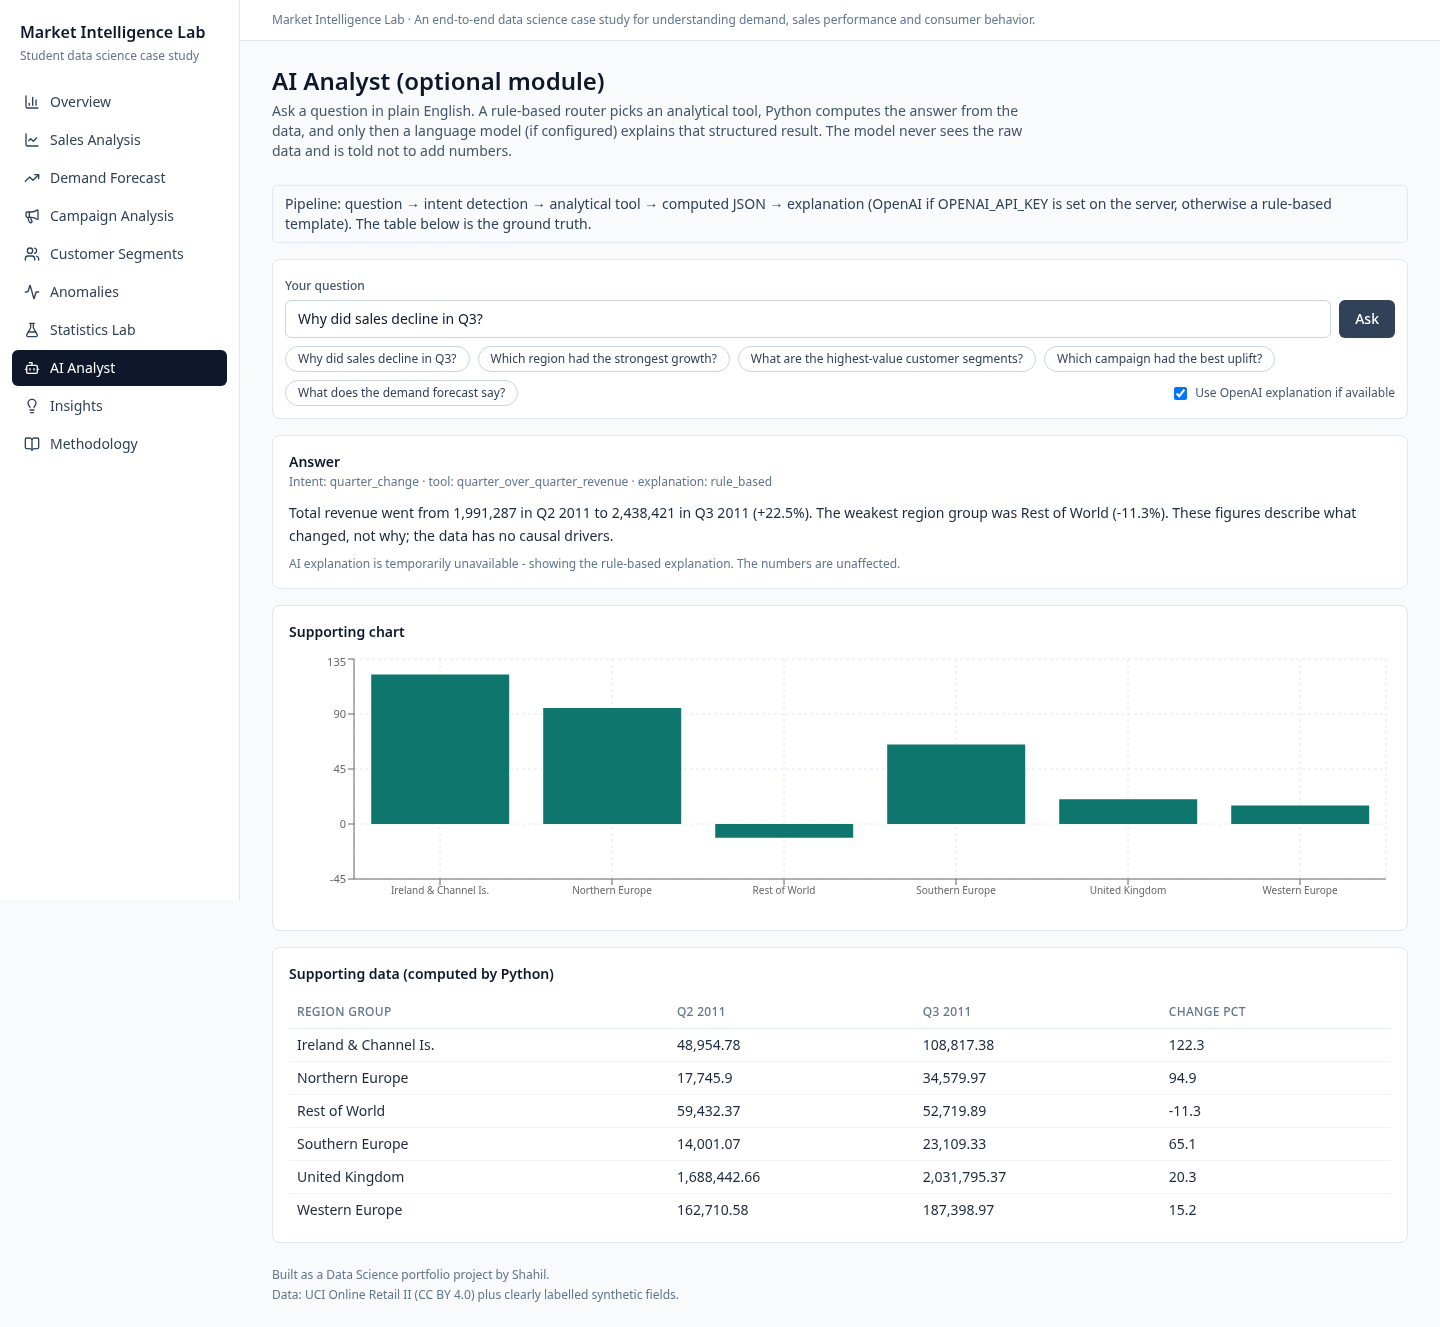
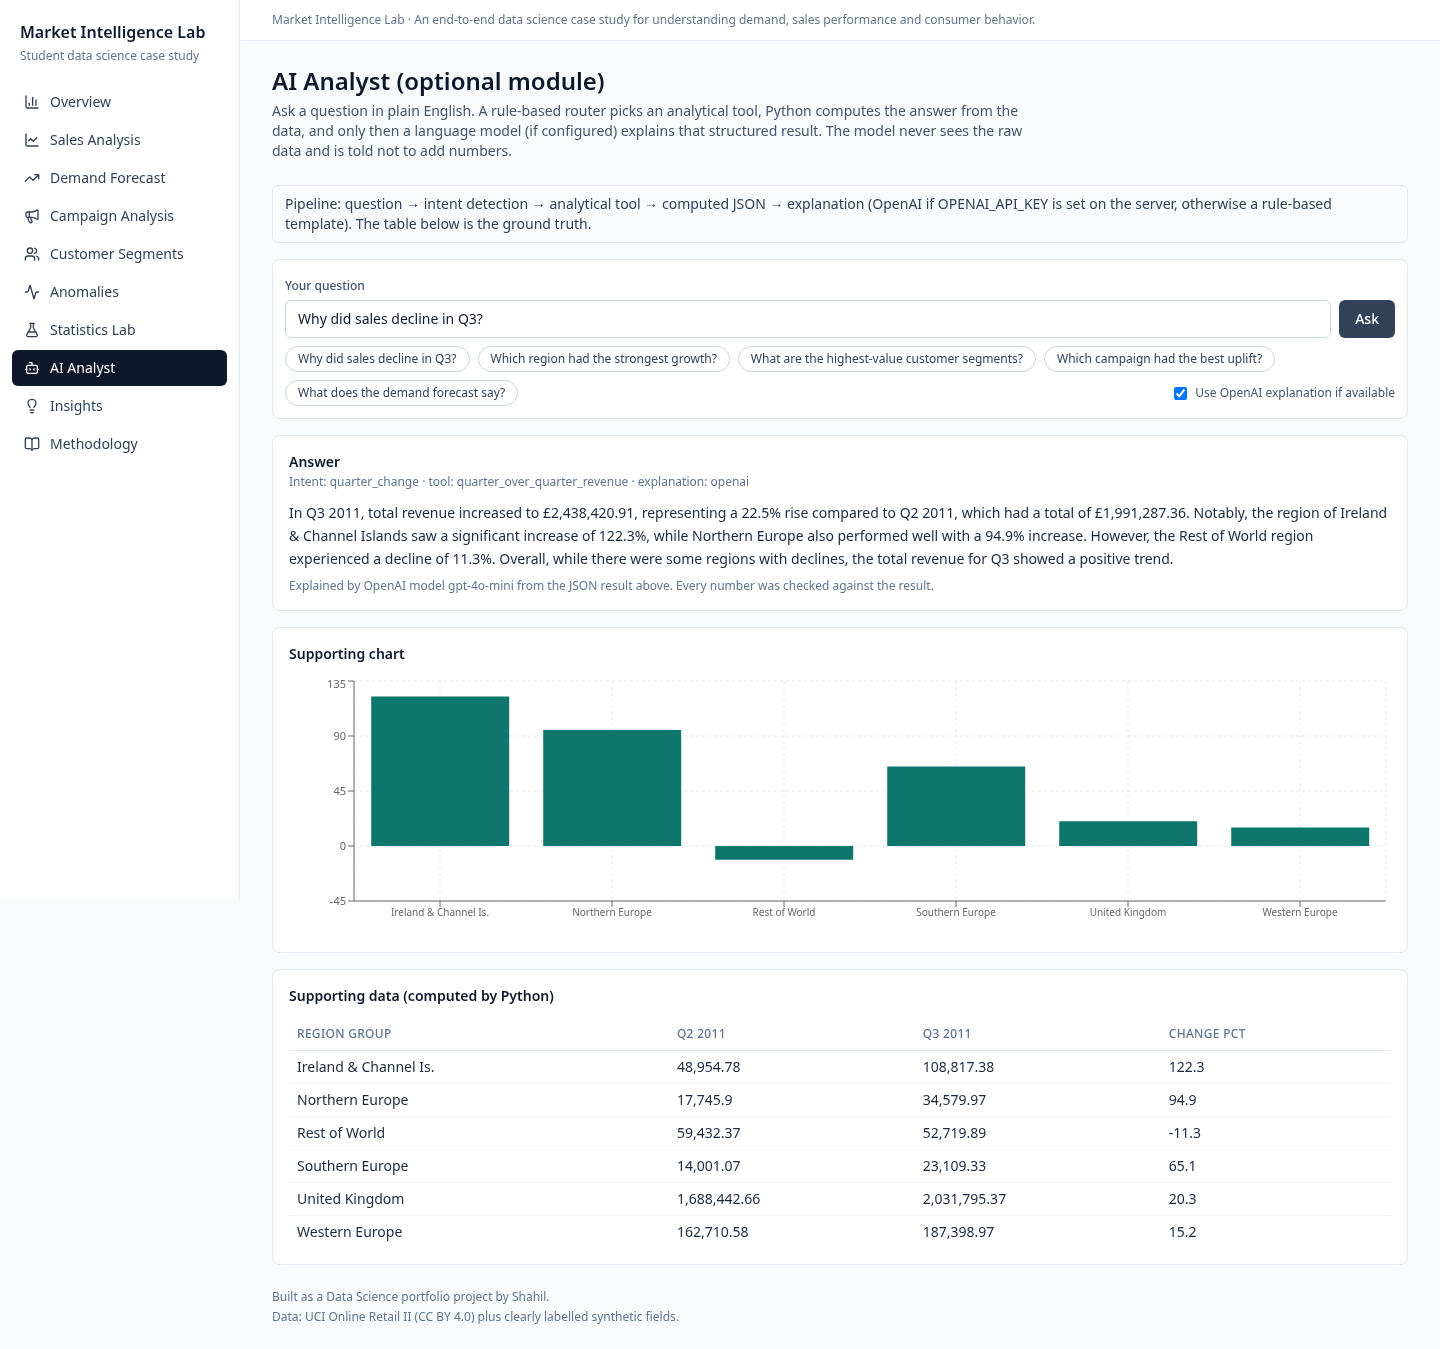
Refresh screenshots and README notes

diff --git a/README.md b/README.md
@@ -102,6 +102,8 @@ The Statistics Lab runs on real order-level data:
 The wording ("significant at 5%") is generated from the p-value, and effect sizes are always shown next to it.
 
 ## AI Data Analyst
+Live check (2026-10-26): the deployed API answered sample questions with grounded gpt-4o-mini explanations; an injection prompt was routed to a normal tool and its fake number ignored.
+
 1. A keyword router maps the question to one of 8 fixed Python tools: quarter change, region growth, segments, forecast, campaigns, anomalies, top products, overview. The model never writes SQL or picks tools.
 2. The tool computes a JSON result.
 3. `gpt-4o-mini` is asked to explain **only** that JSON. The question is passed as untrusted, delimited text.
